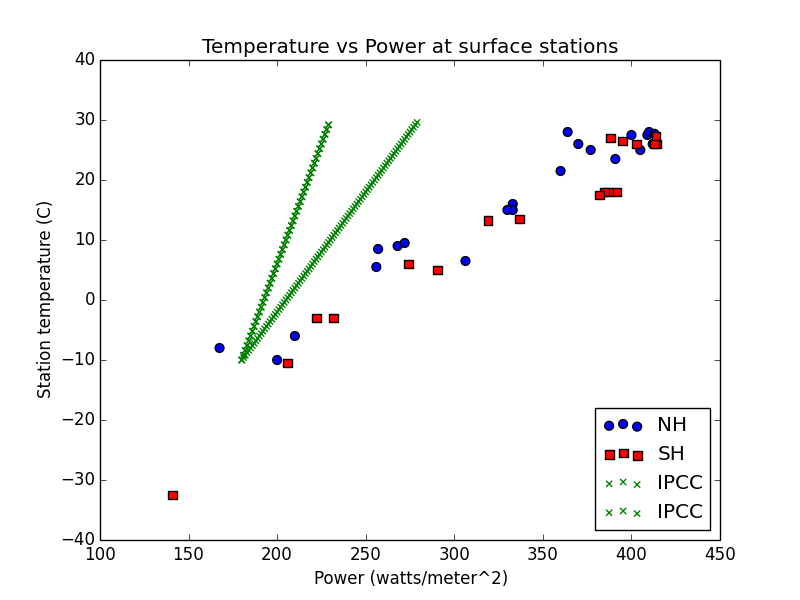
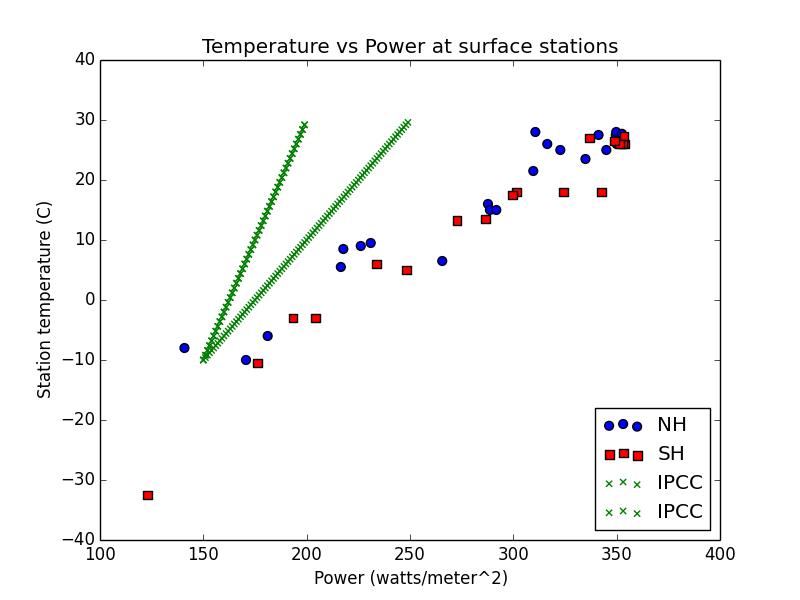
reflection correction

diff --git a/clisen.py b/clisen.py
@@ -59,7 +59,7 @@ sh = climSensDataset('SH_dataset.csv')
 ipccT = []; ipccP = [];
 for ix in range(50):
   ipccT.append( -10.0 + (ix*0.8))
-  ipccP.append(180 + ix)
+  ipccP.append(150 + ix)
 
 plt.title('Temperature vs Power at surface stations')
 plt.xlabel('Power (watts/meter^2)')
@@ -70,7 +70,7 @@ plt.scatter(ipccP, ipccT, s = 20, c='g', marker = 'x', label= 'IPCC')
 
 for ix in range(100):
   ipccT.append( -10.0 + (ix*0.4))
-  ipccP.append(180 + ix)
+  ipccP.append(150 + ix)
 
 plt.scatter(ipccP, ipccT, s = 20, c='g', marker = 'x', label= 'IPCC')
 
